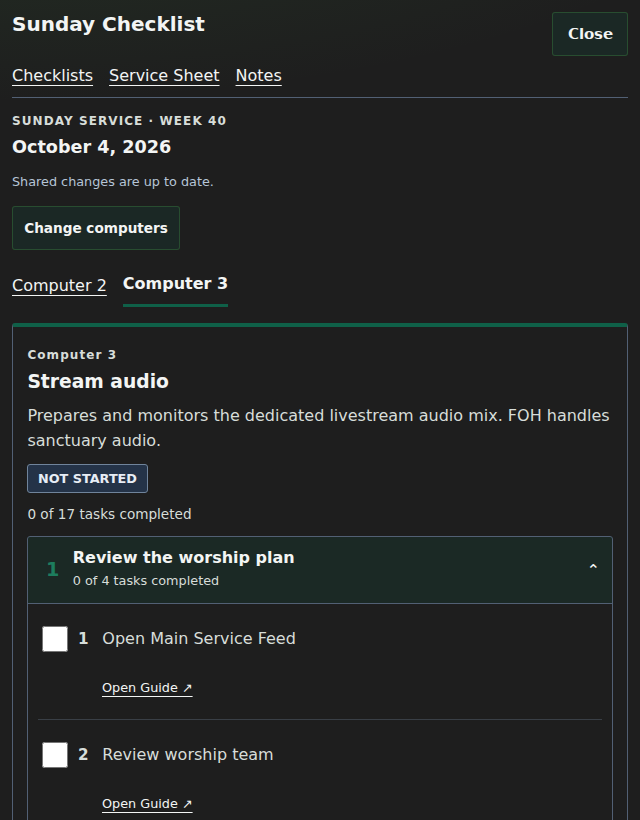
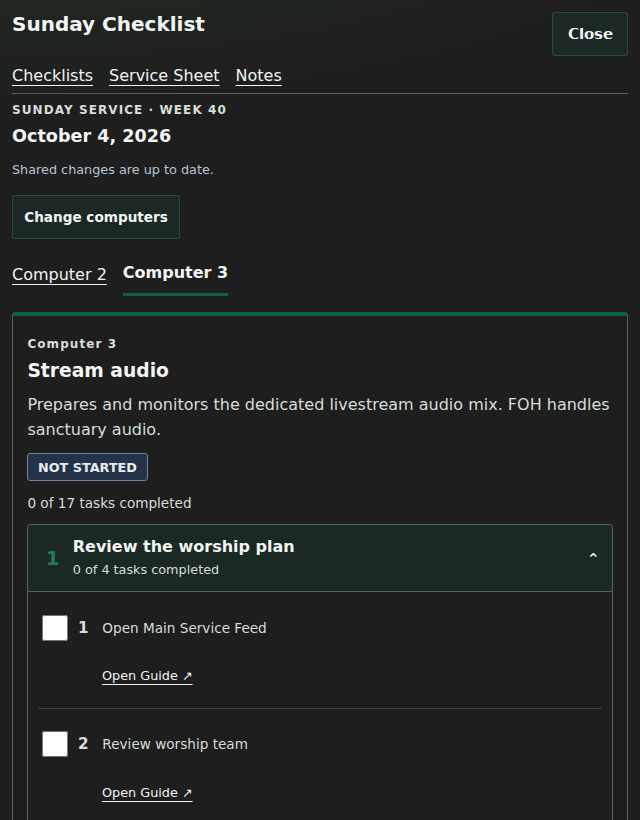
Make planner and media editors practical on phones
Start Pastor, Music Minister, and Media Team pages with clear position-specific instructions. Put compact song order/removal controls beneath each song using one shared template for saved and new songs. Group optional notes, prioritize editing before readiness, and clean up mobile announcement lists, galleries, input fields, and navigation.

Keep existing accounts, permissions, persistence, colors, and livestream handlers. Load mobile overrides after host CSS and refresh asset versions.

Validated role gates, saved/new song ordering/add/remove/save, footer geometry, shared state, archived views, all implemented MMS screens at 320/375/390/768px, and repeat cPanel deployment.

Changed region(s): [[0.0, 0.122, 1.0, 0.7927], [0.0625, 0.8841, 0.4375, 1.0], [0.1562, 0.8232, 0.3125, 0.8537]]

diff --git a/assets/admin-workspace.css b/assets/admin-workspace.css
@@ -178,3 +178,111 @@ body.admin-dark:has(.planner-page) .admin-content-head p {display:none}
 .checklist-window .planner-section-tabs{margin:.6rem 0 1rem}
 .checklist-window .planner-service-heading h3{font-size:1.1rem}
 .checklist-window .station-checklist{margin:1rem 0;padding:.9rem}
+
+/* Mobile editors: information first, actions immediately after that item. */
+.workspace .editor-heading{display:flex;flex-wrap:wrap;align-items:center;justify-content:space-between;gap:.6rem;margin-bottom:.5rem}
+.workspace .editor-heading h3{margin:0}
+.workspace .editor-sheet-link{display:inline-flex;align-items:center;min-height:44px;font-size:.9rem;margin-bottom:.4rem}
+.workspace .song{padding:1rem 0;border-top:1px solid var(--admin-border,#526074)}
+.workspace .song-head{display:block;margin-bottom:.6rem}
+.workspace .song-head h4{font-size:1rem;color:var(--admin-text,#e7edf5)}
+.workspace .song label{margin:.6rem 0 0;font-size:.85rem;font-weight:600;line-height:1.5}
+.workspace .song input,.workspace .song textarea{display:block;margin-top:.3rem;min-height:44px}
+.workspace .song-main-fields{display:grid;grid-template-columns:minmax(80px,1fr) minmax(0,2fr);gap:.75rem}
+.workspace .song-extra-fields{margin:.75rem 0 0;padding:0;border:0}
+.workspace .song-extra-fields>summary{cursor:pointer;display:flex;align-items:center;gap:.5rem;min-height:44px;font-size:.85rem;color:var(--admin-muted,#b6c5d7);list-style:none}
+.workspace .song-extra-fields>summary::before{content:'+';font-size:1.2rem;width:16px}
+.workspace .song-extra-fields[open]>summary::before{content:'−'}
+.workspace .song-extra-fields>summary::-webkit-details-marker{display:none}
+.workspace .song-extra-fields textarea{min-height:76px}
+.workspace .song-actions{display:grid;grid-template-columns:1fr 1fr 1fr;gap:.5rem;margin-top:.8rem;padding-top:.6rem;border-top:1px solid var(--admin-border,#526074)}
+.workspace .song-actions .btn{min-width:0;min-height:44px;margin:0;padding:.5rem .6rem;font:inherit;font-size:.85rem;border:1px solid var(--admin-border,#526074);background:var(--admin-surface-alt,#232526);color:var(--admin-text,#e7edf5);box-shadow:none}
+.workspace .song-actions .btn-danger{color:#ffb9b4;border-color:rgba(192,57,43,.45)}
+.workspace .song-actions .btn:disabled{opacity:.4;cursor:default}
+.workspace .song-actions .btn:focus-visible{outline:2px solid var(--admin-accent-strong,#59b48a);outline-offset:2px}
+.workspace .ready-control{display:flex;align-items:center;gap:.7rem;min-height:48px;margin:1rem 0;font-size:.9rem;font-weight:500;cursor:pointer}
+.workspace .ready-control input[type=checkbox]{margin:0;width:24px;height:24px;flex-shrink:0;accent-color:var(--admin-accent-strong,#59b48a)}
+.workspace .editor-detail{margin:.8rem 0;padding:.7rem;border:1px solid var(--admin-border,#526074);border-radius:3px}
+.workspace .editor-detail>summary{display:flex;align-items:center;min-height:44px;cursor:pointer;font-weight:600;font-size:.9rem;gap:.6rem;list-style:none}
+.workspace .editor-detail>summary::before{content:'+';font-size:1.2rem}
+.workspace .editor-detail[open]>summary::before{content:'−'}
+.workspace .editor-detail>summary::-webkit-details-marker{display:none}
+.workspace button:not(.btn){font:inherit;font-size:.9rem;border:1px solid var(--admin-border,#526074);background:var(--admin-surface-alt,#232526);color:var(--admin-text,#e7edf5);box-shadow:none}
+body.admin-dark .admin-shell .album-card{background:var(--admin-surface-alt);border:1px solid var(--admin-border);border-radius:3px;box-shadow:none}
+body.admin-dark .admin-shell .album-summary{color:var(--admin-muted)}
+body.admin-dark .admin-shell .album-cover-empty{background:var(--admin-accent-soft)}
+body.admin-dark .admin-shell .badge,body.admin-dark .admin-shell .announcement-status{border-radius:3px}
+body.admin-dark .admin-shell input[type=file]{box-sizing:border-box;max-width:100%;min-width:0;font-size:.85rem}
+@media(max-width:700px){
+ body.admin-dark .admin-shell .resource-nav-launcher:not(.open){display:none}
+ body.admin-dark .admin-shell .card,body.admin-dark .admin-shell .form-card{box-sizing:border-box;min-width:0;padding:1rem;border-radius:3px}
+ body.admin-dark .admin-shell .card-header{flex-direction:column;align-items:stretch;gap:.65rem;padding:0;margin-bottom:1rem}
+ body.admin-dark .admin-shell .card h2{font-size:1.2rem;line-height:1.4}
+ body.admin-dark .admin-shell .form-group{min-width:0}
+ body.admin-dark .admin-shell .form-group label{font-size:.85rem;line-height:1.5}
+ body.admin-dark .admin-shell .form-actions{display:flex;flex-wrap:wrap;gap:.5rem}
+ body.admin-dark .admin-shell .form-actions>.btn{min-height:44px;flex:1}
+ body.admin-dark .admin-shell .albums-grid,body.admin-dark .admin-shell .media-grid{grid-template-columns:minmax(0,1fr);gap:1rem}
+ body.admin-dark .admin-shell .album-actions{display:grid;grid-template-columns:1fr 1fr;gap:.5rem}
+ body.admin-dark .admin-shell .album-actions>a:first-child{grid-column:1/-1}
+ body.admin-dark .admin-shell .album-actions form{display:block!important}
+ body.admin-dark .admin-shell .album-actions .btn{width:100%;min-height:44px}
+ body.admin-dark .admin-shell .card img{max-width:100%;height:auto}
+ .workspace .editor-heading h3{font-size:1.15rem;line-height:1.3}
+ .workspace .editor-heading .status{font-size:.65rem;padding:.25rem .4rem}
+ .workspace label{font-size:.85rem;line-height:1.5;margin:.6rem 0 .3rem}
+ .workspace input:not([type=checkbox]),.workspace textarea,.workspace select{font-size:16px;padding:.6rem;min-height:44px}
+ .workspace textarea{min-height:80px}
+ .workspace .song{padding:.9rem 0}
+ .workspace .song-main-fields{gap:.6rem}
+ .workspace .ready-control{font-size:.9rem}
+ .workspace form .actions>.btn-primary,.workspace form .actions>#add-song{width:100%}
+ .workspace .tool-detail{padding:.6rem;margin:.6rem 0}
+ .workspace .tool-detail>summary{font-size:.95rem;line-height:1.5;min-height:44px}
+ .workspace .tool-detail .btn{display:flex;justify-content:center;margin:.5rem 0;width:100%}
+ .workspace .sheet-readiness-list dt small{font-size:.75rem}
+ body.admin-dark .admin-shell .announcement-table{display:block;width:100%;min-width:0}
+ body.admin-dark .admin-shell .announcement-table thead{position:absolute;width:1px;height:1px;overflow:hidden;clip:rect(0,0,0,0)}
+ body.admin-dark .admin-shell .announcement-table tbody{display:grid;gap:1rem}
+ body.admin-dark .admin-shell .announcement-table tr{display:grid;grid-template-columns:minmax(0,1fr) minmax(0,1fr);gap:.65rem;padding:.8rem 0;border-bottom:1px solid var(--admin-border)}
+ body.admin-dark .admin-shell .announcement-table td{display:block;padding:0;border:0;min-width:0;overflow-wrap:anywhere}
+ body.admin-dark .admin-shell .announcement-table td::before{content:attr(data-label);display:block;font-size:.7rem;font-weight:600;color:var(--admin-muted);margin-bottom:.35rem}
+ body.admin-dark .admin-shell .announcement-table .announcement-title-cell{grid-column:1/-1}
+ body.admin-dark .admin-shell .announcement-table .announcement-title-cell strong{font-size:1rem}
+ body.admin-dark .admin-shell .announcement-table td.actions{display:flex;grid-column:1/-1;gap:.5rem;padding-top:.65rem;border-top:1px solid var(--admin-border)}
+ body.admin-dark .admin-shell .announcement-table td.actions::before{display:none}
+ body.admin-dark .admin-shell .announcement-table td.actions>a,body.admin-dark .admin-shell .announcement-table td.actions>form{flex:1}
+ body.admin-dark .admin-shell .announcement-table td.actions .btn{width:100%;min-height:44px}
+ body.admin-dark .admin-shell .announcement-move-cell{gap:.35rem;justify-content:flex-start}
+ body.admin-dark .admin-shell .announcement-move-cell .move-btn{width:44px;min-height:44px;border-radius:3px}
+}
+/* The first screen explains whose workspace this is and what to do next. */
+body.admin-dark:has(.planner-work-header) .admin-content-head{display:none}
+.planner-page .planner-work-header{display:block;flex-direction:initial;padding:0 0 .8rem;margin:0 0 .4rem;border-bottom:1px solid var(--admin-border,#526074)}
+.planner-page .planner-work-header h2{font-size:1.45rem;line-height:1.35;margin:.25rem 0 .5rem;color:var(--admin-text,#e7edf5)}
+.planner-page .planner-work-header .planner-eyebrow{font-size:.8rem;color:var(--admin-accent-strong,#59b48a);margin:0;letter-spacing:.04em}
+.planner-page .planner-work-header .planner-first-step{font-size:.95rem;line-height:1.6;color:var(--admin-muted,#b6c5d7);margin:0;max-width:50rem}
+.planner-page:has(.planner-work-header) .checklist-controls>h3,
+.planner-page:has(.planner-work-header) .checklist-controls>.planner-eyebrow,
+.planner-page:has(.planner-work-header) .checklist-controls>p{display:none}
+.planner-page .readiness-summary{margin-top:1.2rem}
+@media(max-width:700px){.planner-page .planner-work-header h2{font-size:1.25rem}.planner-page .planner-work-header .planner-first-step{font-size:.9rem}}
+.planner-page .planner-work-header .planner-eyebrow{color:var(--admin-text,#e7edf5);letter-spacing:0;font-weight:600}
+.planner-page:has(.planner-work-header) .workspace-section>.planner-eyebrow,
+.planner-page:has(.planner-work-header) .editor-heading+p{display:none}
+.workspace .song input,.workspace .song textarea{font-weight:400}
+.workspace .actions .editor-sheet-link{margin:0;justify-content:center;font-size:.85rem;min-height:44px}
+@media(max-width:700px){.workspace .actions .editor-sheet-link{width:100%}}
+body.admin-dark .admin-shell .card input:not([type]),body.admin-dark .admin-shell .card input[type=url],body.admin-dark .admin-shell .card input[type=tel]{box-sizing:border-box;width:100%;min-width:0;max-width:100%;min-height:44px;padding:.65rem;border:1px solid var(--admin-border,#526074);border-radius:3px;background:var(--admin-surface-alt,#232526);color:var(--admin-text,#e7edf5);font:inherit;font-size:16px}
+body.admin-dark .admin-shell .card label:has(>input[type=checkbox]){display:flex;align-items:center;gap:.6rem;min-height:44px;cursor:pointer}
+body.admin-dark .admin-shell .card label>input[type=checkbox]{flex-shrink:0;margin:0;width:22px;height:22px;accent-color:var(--admin-accent,#0f6048)}
+body.admin-dark .admin-content:has(.workspace) .admin-content-head p{display:none}
+body.admin-dark .admin-content:has(.announcement-card-shell) .admin-content-head{display:none}
+body.admin-dark .admin-shell .announcement-move-cell .move-btn{display:inline-flex;align-items:center;justify-content:center;min-height:44px;border:1px solid var(--admin-border,#526074);background:var(--admin-surface-alt,#232526);color:var(--admin-text,#e7edf5);font:inherit;box-shadow:none;border-radius:3px}
+body.admin-dark .admin-shell .announcement-move-cell .move-btn:disabled{opacity:.4}
+@media(max-width:700px){
+ body.admin-dark .admin-shell .announcement-page-head h3{font-size:1.25rem;line-height:1.35;margin:0}
+ body.admin-dark .admin-shell .announcement-page-copy{font-size:.9rem;line-height:1.5;margin:.5rem 0}
+ body.admin-dark .admin-content:has(.albums-grid) .admin-content-head{display:none}
+ .workspace .planner-section-tabs{margin:.6rem 0 .6rem;padding-bottom:.5rem}
+}

diff --git a/assets/js/service-planner.js b/assets/js/service-planner.js
@@ -178,6 +178,9 @@
     if (!songs) return;
     [...songs.children].forEach((song, index) => {
       song.querySelector('.song-number').textContent = String(index + 1);
+      song.querySelector('.song-actions')?.setAttribute('aria-label', `Song ${index + 1} order controls`);
+      song.querySelector('[data-song-action="up"]')?.setAttribute('aria-label', `Move song ${index + 1} up`);
+      song.querySelector('[data-song-action="down"]')?.setAttribute('aria-label', `Move song ${index + 1} down`);
       song.querySelectorAll('[data-song-field]').forEach(input => { input.name = `songs[${index}][${input.dataset.songField}]`; });
       const up = song.querySelector('[data-song-action="up"]');
       const down = song.querySelector('[data-song-action="down"]');
@@ -188,15 +191,9 @@
   const add = document.getElementById('add-song');
   if (songs && add) {
     add.addEventListener('click', () => {
-      const song = document.createElement('div'); song.className = 'song';
-      const head = document.createElement('div'); head.className = 'song-head';
-      head.innerHTML = '<h4>Song <span class="song-number"></span></h4><div class="actions"><button type="button" data-song-action="up" aria-label="Move song up">↑ Up</button><button type="button" data-song-action="down" aria-label="Move song down">↓ Down</button><button type="button" data-song-action="remove">Remove</button></div>';
-      song.append(head);
-      Object.entries({title: 'Song title', key: 'Key', lead: 'Lead vocalist', additional: 'Additional vocalists', notes: 'Special notes / instruments'}).forEach(([key, text]) => {
-        const label = document.createElement('label'); label.textContent = text;
-        const input = document.createElement('input'); input.dataset.songField = key;
-        input.maxLength = 12000; input.required = key === 'title'; label.append(input); song.append(label);
-      });
+      const template = document.getElementById('song-template');
+      if (!template) return;
+      const song = template.content.firstElementChild.cloneNode(true);
       songs.append(song); renumber(); song.querySelector('input').focus();
     });
     songs.addEventListener('click', event => {

diff --git a/php/admin/service-planner/index.php b/php/admin/service-planner/index.php
@@ -31,11 +31,12 @@ try {
 }
 $popout=($_GET['popout']??'')==='1';
 if(!$popout)admin_page_start('Service Planner','service-planner');
-else { ?><!DOCTYPE html><html lang="en"><head><meta charset="utf-8"><meta name="viewport" content="width=device-width, initial-scale=1"><title>Sunday Checklist · Liberty Church</title><link rel="stylesheet" href="/assets/admin.css"><link rel="stylesheet" href="/assets/admin-workspace.css?v=2"></head><body class="admin-dark guide-body checklist-window"><main><?php }
+else { ?><!DOCTYPE html><html lang="en"><head><meta charset="utf-8"><meta name="viewport" content="width=device-width, initial-scale=1"><title>Sunday Checklist · Liberty Church</title><link rel="stylesheet" href="/assets/admin.css"><link rel="stylesheet" href="/assets/admin-workspace.css?v=3"></head><body class="admin-dark guide-body checklist-window"><main><?php }
 ?>
-<link rel="stylesheet" href="/assets/admin-workspace.css?v=2">
+<link rel="stylesheet" href="/assets/admin-workspace.css?v=3">
 <div class="workspace planner-page" id="service-planner" data-popout="<?=$popout?'1':'0'?>" data-section="<?=sp_e($section)?>" data-service-id="<?=$id?>" data-revision="<?=(int)($service['revision']??0)?>" data-archived="<?=!empty($service['is_archived'])?'1':'0'?>">
 <?php if($popout): ?><header class="guide-header"><h1>Sunday Checklist</h1><button class="btn btn-secondary" type="button" id="close-guide" hidden>Close</button></header><?php if($id): ?><nav class="planner-section-tabs"><a href="<?=sp_e(sp_page_url($id,'media',$computers))?>">Checklists</a><a href="<?=sp_e(sp_page_url($id,'sheet',$computers))?>">Service Sheet</a><a href="<?=sp_e(sp_page_url($id,'notes',$computers))?>">Notes</a></nav><?php endif; endif; ?>
+<?php if(!$popout)sp_work_intro($section,(bool)$service,(bool)$computers,(bool)($service['is_archived']??false)); ?>
 <?php if($error): ?><p class="flash flash-error" role="alert"><?=sp_e($error)?></p><?php endif; ?>
 <?php if(!$service): ?>
     <p class="planner-eyebrow">START HERE</p><h3>1. Choose the Sunday</h3>
@@ -68,35 +69,38 @@ else { ?><!DOCTYPE html><html lang="en"><head><meta charset="utf-8"><meta name="
     <?php elseif(in_array($section,['sheet','notes'],true)): ?>
         <?php require __DIR__.'/service-sheet.php'; ?>
     <?php elseif($section==='announcements'): ?>
-        <?php sp_media_readiness($statuses); ?>
         <section class="workspace-section"><p class="planner-eyebrow">PASTOR</p><h3>Church announcements</h3><nav class="planner-section-tabs"><a href="<?=sp_e(sp_page_url($id,'sermon'))?>">Sermon</a><a href="<?=sp_e(sp_page_url($id,'announcements'))?>" aria-current="page">Announcements</a></nav>
         <form method="post" data-planner-form><?php sp_hidden($service,'announcements'); ?><fieldset <?=$archived?'disabled':''?> style="border:0;padding:0"><label for="announcement-notes">Announcement notes for Media</label><p>List dates, reminders, and what Media needs to prepare for this Sunday.</p><textarea id="announcement-notes" name="announcement_notes" maxlength="12000"><?=sp_e($service['sermon']['announcement_notes']??'')?></textarea><?php if(!$archived): ?><div class="actions"><button class="btn btn-primary" type="submit">Save announcement notes</button></div><?php endif; ?></fieldset><p class="save-message" role="status"></p></form>
         </section><section class="workspace-section"><h3>Website announcements &amp; upcoming dates</h3><p>Use the existing announcement editor for wording and dates. The team sees current and upcoming announcements on the Service Sheet.</p><?php if(!$archived): ?><div class="actions"><a class="btn btn-primary" href="/php/admin/announcements/new.php">Add church announcement</a><a class="btn btn-secondary" href="/php/admin/announcements/index.php">Manage church announcements</a></div><?php endif; ?>
         <?php foreach(sp_service_announcements($pdo,$service) as $announcement): ?><article class="sheet-announcement"><h4><?=sp_e($announcement['title'])?></h4><p><?=sp_e(sp_announcement_dates($announcement))?></p><div class="reference"><?=sp_e($announcement['body'])?></div></article><?php endforeach; ?></section>
-    <?php elseif($section==='sermon'): ?>
         <?php sp_media_readiness($statuses); ?>
-        <section class="workspace-section"><p class="planner-eyebrow">PASTOR</p><h3>Sermon information</h3><p>Enter the information once. The team reads it on the Service Sheet.</p><a class="guide-link" href="<?=sp_e(sp_page_url($id,'sheet'))?>">View saved Service Sheet →</a><?php sp_badge('sermon',$statuses['sermon']); ?>
+    <?php elseif($section==='sermon'): ?>
+        <section class="workspace-section"><p class="planner-eyebrow">PASTOR</p><div class="editor-heading"><h3>Sermon information</h3><?php sp_badge('sermon',$statuses['sermon']); ?></div><p>Enter the sermon once for the whole team.</p>
         <nav class="planner-section-tabs"><a href="<?=sp_e(sp_page_url($id,'sermon'))?>" aria-current="page">Sermon</a><a href="<?=sp_e(sp_page_url($id,'announcements'))?>">Announcements</a></nav>
         <form method="post" data-planner-form><?php sp_hidden($service,'sermon'); ?><fieldset <?=$archived?'disabled':''?> style="border:0;padding:0;margin:0">
-        <?php foreach(['title'=>'Sermon title','primary_scripture'=>'Primary scripture','additional_scriptures'=>'Additional scriptures','media_notes'=>'Sermon notes needed by Media','special_media'=>'Special media requirements','videos'=>'Videos / existing media links','presentation_instructions'=>'Presentation instructions'] as $key=>$label): ?>
+        <?php foreach(['title'=>'Sermon title','primary_scripture'=>'Primary scripture','additional_scriptures'=>'Additional scriptures'] as $key=>$label): ?>
         <label for="sermon-<?=sp_e($key)?>"><?=sp_e($label)?></label><?php if(in_array($key,['title','primary_scripture'],true)): ?><input id="sermon-<?=sp_e($key)?>" name="<?=sp_e($key)?>" maxlength="1000" value="<?=sp_e($service['sermon'][$key]??'')?>"><?php else: ?><textarea id="sermon-<?=sp_e($key)?>" name="<?=sp_e($key)?>" maxlength="12000"><?=sp_e($service['sermon'][$key]??'')?></textarea><?php endif; ?>
-        <?php endforeach; ?><label><input type="checkbox" name="ready" value="1" <?=$service['sermon_ready']?'checked':''?>> Sermon information ready</label>
-        <?php if(!$archived): ?><div class="actions"><button class="btn" type="submit">Save sermon information</button></div><?php endif; ?></fieldset><p class="save-message" role="status"></p></form></section>
-    <?php elseif($section==='worship'): ?>
+        <?php endforeach; ?>
+        <details class="editor-detail"><summary>Media notes &amp; instructions</summary>
+        <?php foreach(['media_notes'=>'Sermon notes for Media','special_media'=>'Special media requirements','videos'=>'Videos / media links','presentation_instructions'=>'Presentation instructions'] as $key=>$label): ?><label for="sermon-<?=sp_e($key)?>"><?=sp_e($label)?></label><textarea id="sermon-<?=sp_e($key)?>" name="<?=sp_e($key)?>" maxlength="12000" rows="3"><?=sp_e($service['sermon'][$key]??'')?></textarea><?php endforeach; ?>
+        </details>
+        <label class="ready-control"><input type="checkbox" name="ready" value="1" <?=$service['sermon_ready']?'checked':''?>> Sermon information ready</label>
+        <?php if(!$archived): ?><div class="actions"><button class="btn btn-primary" type="submit">Save sermon information</button><a class="guide-link editor-sheet-link" href="<?=sp_e(sp_page_url($id,'sheet'))?>">View Service Sheet →</a></div><?php endif; ?></fieldset><p class="save-message" role="status"></p></form></section>
         <?php sp_media_readiness($statuses); ?>
-        <section class="workspace-section"><p class="planner-eyebrow">MUSIC MINISTER</p><h3>Worship plan</h3><p>Arrange songs in service order. The team reads the saved plan on the Service Sheet.</p><a class="guide-link" href="<?=sp_e(sp_page_url($id,'sheet'))?>">View saved Service Sheet →</a><?php sp_badge('worship',$statuses['worship']); ?>
+    <?php elseif($section==='worship'): ?>
+        <section class="workspace-section"><p class="planner-eyebrow">MUSIC MINISTER</p><div class="editor-heading"><h3>Worship plan</h3><?php sp_badge('worship',$statuses['worship']); ?></div><p>Enter the songs in service order.</p>
         <form method="post" data-planner-form id="worship-form"><?php sp_hidden($service,'worship'); ?><fieldset <?=$archived?'disabled':''?> style="border:0;padding:0;margin:0">
         <div id="songs">
-        <?php foreach($service['worship'] as $i=>$song): ?><div class="song"><div class="song-head"><h4>Song <span class="song-number"><?=$i+1?></span></h4><?php if(!$archived): ?><div class="actions"><button type="button" data-song-action="up" aria-label="Move song up">↑ Up</button><button type="button" data-song-action="down" aria-label="Move song down">↓ Down</button><button type="button" data-song-action="remove">Remove</button></div><?php endif; ?></div>
-        <?php foreach(['title'=>'Song title','key'=>'Key','lead'=>'Lead vocalist','additional'=>'Additional vocalists','notes'=>'Special notes / instruments'] as $key=>$label): ?><label><?=sp_e($label)?><input data-song-field="<?=sp_e($key)?>" name="songs[<?=$i?>][<?=sp_e($key)?>]" value="<?=sp_e($song[$key]??'')?>" maxlength="12000" <?=$key==='title'?'required':''?>></label><?php endforeach; ?></div><?php endforeach; ?>
+        <?php foreach($service['worship'] as $i=>$song)sp_song_editor($song,$i,$archived); ?>
         </div>
-        <?php if(!$archived): ?><div class="actions"><button type="button" id="add-song" class="btn btn-secondary">Add song</button></div><?php endif; ?>
-        <label><input type="checkbox" name="ready" value="1" <?=$service['worship_ready']?'checked':''?>> Worship plan ready</label>
-        <?php if(!$archived): ?><div class="actions"><button class="btn" type="submit">Save worship plan</button></div><?php endif; ?></fieldset><p class="save-message" role="status"></p></form></section>
+        <?php if(!$archived): ?><template id="song-template"><?php sp_song_editor([],0,false); ?></template><div class="actions"><button type="button" id="add-song" class="btn btn-secondary">Add song</button></div><?php endif; ?>
+        <label class="ready-control"><input type="checkbox" name="ready" value="1" <?=$service['worship_ready']?'checked':''?>> Worship plan ready</label>
+        <?php if(!$archived): ?><div class="actions"><button class="btn btn-primary" type="submit">Save worship plan</button><a class="guide-link editor-sheet-link" href="<?=sp_e(sp_page_url($id,'sheet'))?>">View Service Sheet →</a></div><?php endif; ?></fieldset><p class="save-message" role="status"></p></form></section>
+        <?php sp_media_readiness($statuses); ?>
     <?php elseif($section==='media'): ?>
         <?php require __DIR__.'/checklists.php'; ?>
     <?php endif; ?>
 <?php endif; ?>
 </div>
-<script src="/assets/js/service-planner.js?v=2" defer></script>
+<script src="/assets/js/service-planner.js?v=3" defer></script>
 <?php if(!$popout)admin_page_end();else { ?><script src="/assets/js/service-guide.js?v=1" defer></script></main></body></html><?php } ?>

diff --git a/php/admin/service-planner/presentation.php b/php/admin/service-planner/presentation.php
@@ -93,3 +93,39 @@ function sp_render_worship(array $songs): void { ?>
     <?php endforeach; ?></ol>
     <p data-empty-songs <?=!$songs?'':'hidden'?>>No songs entered yet.</p>
 <?php }
+
+function sp_song_editor(array $song, int $index, bool $archived): void { ?>
+    <div class="song">
+        <div class="song-head"><h4>Song <span class="song-number"><?=$index+1?></span></h4></div>
+        <label class="song-title-field">Song title<input data-song-field="title" name="songs[<?=$index?>][title]" value="<?=sp_e($song['title']??'')?>" maxlength="12000" required></label>
+        <div class="song-main-fields">
+            <label>Key<input data-song-field="key" name="songs[<?=$index?>][key]" value="<?=sp_e($song['key']??'')?>" maxlength="12000" placeholder="e.g. G"></label>
+            <label>Lead vocalist<input data-song-field="lead" name="songs[<?=$index?>][lead]" value="<?=sp_e($song['lead']??'')?>" maxlength="12000"></label>
+        </div>
+        <details class="song-extra-fields">
+            <summary>Additional vocals &amp; notes</summary>
+            <label>Additional vocalists<input data-song-field="additional" name="songs[<?=$index?>][additional]" value="<?=sp_e($song['additional']??'')?>" maxlength="12000"></label>
+            <label>Notes / instruments<textarea data-song-field="notes" name="songs[<?=$index?>][notes]" maxlength="12000" rows="3"><?=sp_e($song['notes']??'')?></textarea></label>
+        </details>
+        <?php if(!$archived): ?><div class="song-actions" role="group" aria-label="Song order controls">
+            <button class="btn btn-secondary" type="button" data-song-action="up" aria-label="Move song up">↑ Up</button>
+            <button class="btn btn-secondary" type="button" data-song-action="down" aria-label="Move song down">↓ Down</button>
+            <button class="btn btn-danger" type="button" data-song-action="remove">Remove</button>
+        </div><?php endif; ?>
+    </div>
+<?php }
+
+function sp_work_intro(string $section, bool $hasSunday, bool $hasStations, bool $archived): void
+{
+    $intro=match($section){
+        'sermon'=>['Pastor','Prepare Sunday’s sermon','Start with the title and scriptures. Add Media instructions if needed, then save.'],
+        'announcements'=>['Pastor','Prepare church announcements','Add the notes and dates Media needs for this Sunday, then save.'],
+        'worship'=>['Music Minister','Build Sunday’s worship plan','Add the songs in order. Set each key and lead vocalist, then save the plan.'],
+        'media'=>['Media Team',$hasStations?'Work through your station checklist':'Choose where you’re working',$hasStations?'Check each task when done. Open Guide whenever you need instructions.':'Select your stations below. You can work on more than one computer.'],
+        default=>null,
+    };
+    if(!$intro)return;
+    if(!$hasSunday)$intro[2]='First, open the Sunday service below. Then complete your section.';
+    if($archived){$intro[1]='Saved Sunday · '.$intro[0];$intro[2]='This Sunday is archived. You can read its saved information and completion state.';}
+    ?><header class="planner-work-header"><p class="planner-eyebrow"><?=sp_e($intro[0])?> workspace</p><h2><?=sp_e($intro[1])?></h2><p class="planner-first-step"><?=sp_e($intro[2])?></p></header><?php
+}

diff --git a/php/admin/announcements/index.php b/php/admin/announcements/index.php
@@ -32,8 +32,8 @@ admin_page_start($categoryFilter?'Youth Announcements':'Announcements', 'announc
 <section class="card announcement-card-shell">
     <div class="card-header announcement-list-header">
         <div class="announcement-page-head">
-            <h3><?=$categoryFilter?'Youth Announcements':'Manage Announcements'?></h3>
-            <p class="announcement-page-copy"><?=$categoryFilter?'Youth-page announcements. Open all announcements to change the website display order.':'Use the arrows to move announcements up or down. New announcements publish straight to the site, and edits save without any sort-order box.'?></p><?php if($categoryFilter): ?><a class="btn btn-secondary" href="index.php">View all announcements</a><?php endif; ?>
+            <h3><?=$categoryFilter?'Youth Announcements':'Church announcements'?></h3>
+            <p class="announcement-page-copy"><?=$categoryFilter?'Youth-page announcements. Open all announcements to change the website display order.':'Add announcements and dates. Use the arrows to change their order.'?></p><?php if($categoryFilter): ?><a class="btn btn-secondary" href="index.php">View all announcements</a><?php endif; ?>
         </div>
         <a href="new.php<?=$categoryFilter?'?category=youth':''?>" class="btn btn-primary">+ New Announcement</a>
     </div>
@@ -77,10 +77,10 @@ admin_page_start($categoryFilter?'Youth Announcements':'Announcements', 'announc
                                 <strong><?= htmlspecialchars($ann['title']) ?></strong>
                                 <small class="muted announcement-preview"><?= htmlspecialchars($previewText) ?><?= $hasMore ? '…' : '' ?></small>
                             </td>
-                            <td>
+                            <td data-label="Placement">
                                 <span class="announcement-meta-label"><?= htmlspecialchars(ucfirst($ann['category'])) ?></span>
                             </td>
-                            <td>
+                            <td data-label="Schedule">
                                 <small class="announcement-meta-block">
                                     <?php if ($ann['start_date']): ?>
                                         <span>Starts <?= htmlspecialchars((string) $ann['start_date']) ?></span>
@@ -93,12 +93,12 @@ admin_page_start($categoryFilter?'Youth Announcements':'Announcements', 'announc
                                     <?php endif; ?>
                                 </small>
                             </td>
-                            <td>
+                            <td data-label="Status">
                                 <span class="announcement-status <?= $ann['is_published'] ? 'is-live' : 'is-muted' ?>">
                                     <?= $ann['is_published'] ? 'Published' : 'Draft' ?>
                                 </span>
                             </td>
-                            <td>
+                            <td data-label="Move">
                                 <div class="announcement-move-cell">
                                     <form method="POST" action="reorder.php" class="move-form">
                                         <input type="hidden" name="csrf_token" value="<?= csrf_token() ?>">

diff --git a/deploy/feature.php b/deploy/feature.php
@@ -57,7 +57,7 @@ if (!str_contains($layout, 'admin_workspace_groups($resourceGroups)')) {
  if ($count !== 1) throw new RuntimeException('Could not integrate admin navigation. No live files changed.');
 }
 if (!str_contains($layout, '/assets/admin-workspace.css')) {
- $layout = str_replace('</head>', '<link rel="stylesheet" href="/assets/admin-workspace.css?v=2">'."\n</head>", $layout);
+ $layout = str_replace('</head>', '<link rel="stylesheet" href="/assets/admin-workspace.css?v=3">'."\n</head>", $layout);
 }
 if (!str_contains($layout, 'admin_workspace_navigation($active)')) {
  $menuLoop = '<?php foreach ($resourceGroups as $group): ?>';
@@ -65,7 +65,9 @@ if (!str_contains($layout, 'admin_workspace_navigation($active)')) {
  $layout = str_replace($menuLoop, '<?php admin_workspace_navigation($active); ?>'."\n".$menuLoop, $layout);
 }
 $layout = str_replace('<a class="resource-link" href="/php/admin/features/index.php">Feature</a>', '', $layout);
-$layout=str_replace('/assets/admin-workspace.css?v=1','/assets/admin-workspace.css?v=2',$layout);
+// Keep overrides after the host stylesheet, and expire cached planner assets.
+$layout=preg_replace('~<link\b[^>]*href="/assets/admin-workspace\.css[^"\s]*"[^>]*>~','',$layout);
+$layout=str_replace('</head>','<link rel="stylesheet" href="/assets/admin-workspace.css?v=3">'."\n</head>",$layout);
 add_write('php/admin/layout.php',$layout);
 $ht=is_file($root.'/.htaccess')?file_get_contents($root.'/.htaccess'):'';
 if (!str_contains($ht,'RewriteRule ^operation-christmas-child')) $ht="<IfModule mod_rewrite.c>\nRewriteEngine On\nRewriteRule ^operation-christmas-child/?$ operation-christmas-child.php [L]\n</IfModule>\n".$ht;

diff --git a/php/admin/service-planner/guide.php b/php/admin/service-planner/guide.php
@@ -41,7 +41,7 @@ try {
 }catch(Throwable $e){if($uploadedPath && is_file($uploadedPath))unlink($uploadedPath);$error=$e instanceof InvalidArgumentException || $e->getCode()===409?$e->getMessage():'The guide could not load or save. Try again.';if(!($e instanceof InvalidArgumentException) && $e->getCode()!==409)error_log($e->getMessage());}
 $resources=$task?sp_decode($task['resources_json']??'[]'):[];
 ?>
-<!DOCTYPE html><html lang="en"><head><meta charset="utf-8"><meta name="viewport" content="width=device-width, initial-scale=1"><title><?=sp_e($task?$task['title']:'Station Manual')?> · Liberty Church</title><link rel="stylesheet" href="/assets/admin.css"><link rel="stylesheet" href="/assets/admin-workspace.css?v=2"></head>
+<!DOCTYPE html><html lang="en"><head><meta charset="utf-8"><meta name="viewport" content="width=device-width, initial-scale=1"><title><?=sp_e($task?$task['title']:'Station Manual')?> · Liberty Church</title><link rel="stylesheet" href="/assets/admin.css"><link rel="stylesheet" href="/assets/admin-workspace.css?v=3"></head>
 <body class="admin-dark guide-body"><main class="workspace guide-workspace">
     <header class="guide-header"><div><p class="planner-eyebrow">LIBERTY CHURCH</p><h1>Station Manual</h1></div><button type="button" class="btn btn-secondary" id="close-guide" hidden>Close guide</button></header>
     <nav class="planner-breadcrumb"><a href="<?=sp_e(sp_guide_url($id))?>">All stations</a><?php if($station): ?><span aria-hidden="true">/</span><a href="<?=sp_e(sp_guide_url($id,$station))?>"><?=sp_e(sp_stations()[$station][0])?></a><?php endif; ?></nav>

diff --git a/tests/service_planner_deploy_test.py b/tests/service_planner_deploy_test.py
@@ -9,7 +9,7 @@ php=[os.environ.get('PLANNER_TEST_PHP','php')]+json.loads(os.environ.get('PLANNE
 for i in range(2):
  result=subprocess.run(php+[str(r/'deploy/feature.php'),str(target)],capture_output=True,text=True);assert result.returncode==0,result.stderr
  assert marker in (target/'index.html').read_text();assert config==(target/'php/config.php').read_bytes();assert auth==(target/'php/admin/bootstrap.php').read_bytes()
- layout=(target/'php/admin/layout.php').read_text();assert layout.count('admin_workspace_navigation($active)')==1;assert 'admin-workspace.css?v=2' in layout
+ layout=(target/'php/admin/layout.php').read_text();assert layout.count('admin_workspace_navigation($active)')==1;assert 'admin-workspace.css?v=3' in layout
  for file in ['access.php','guide.php','checklists.php','foh.php','presentation.php','service-sheet.php']:assert (target/'php/admin/service-planner'/file).exists()
  assert subprocess.run(php+['-l',str(target/'php/admin/layout.php')],capture_output=True).returncode==0
 before=(target/'index.html').read_bytes();p=target/'php/admin/layout.php';p.write_text('<?php function admin_page_start() {} ?>');bad=subprocess.run(php+[str(r/'deploy/feature.php'),str(target)],capture_output=True,text=True);assert bad.returncode!=0;assert before==(target/'index.html').read_bytes()

diff --git a/tests/service_planner_fixture.php b/tests/service_planner_fixture.php
@@ -12,4 +12,6 @@ sp_mutate($pdo,['action'=>'worship','service_id'=>$id,'revision'=>1,'songs'=>[['
 $pdo->exec("DELETE FROM announcements WHERE title LIKE 'QA %'");
 $s=$pdo->prepare('INSERT INTO announcements(category,title,body,start_date,end_date,is_published,sort_order) VALUES(?,?,?,?,?,1,0)');
 $s->execute(['main','QA Upcoming outreach','Prepare the announcement graphic.','2026-10-18','2026-10-18']);$s->execute(['main','QA Expired event','Should not appear.','2026-09-01','2026-09-02']);$s->execute(['youth','QA Youth night','Youth announcement.','2026-10-10','2026-10-10']);
+$album=$pdo->prepare('INSERT INTO youth_albums(title,summary,event_date,is_active) SELECT ?,?,?,1 WHERE NOT EXISTS(SELECT 1 FROM youth_albums WHERE title=?)');
+$album->execute(['QA Youth gallery','Photos from our youth gatherings.','2026-10-04','QA Youth gallery']);
 echo "Fixture Sunday ID: $id\n";

diff --git a/php/admin/layout.php b/php/admin/layout.php
@@ -122,8 +122,8 @@ function admin_page_start(string $title, string $active = ''): void
         <link rel="preconnect" href="https://fonts.googleapis.com">
         <link rel="preconnect" href="https://fonts.gstatic.com" crossorigin>
         <link href="https://fonts.googleapis.com/css2?family=Inter:wght@400;500;600;700&display=swap" rel="stylesheet">
-        <link rel="stylesheet" href="/assets/admin-workspace.css?v=1">
         <link rel="stylesheet" href="/assets/admin.css?v=<?= rawurlencode($cssVersion) ?>">
+        <link rel="stylesheet" href="/assets/admin-workspace.css?v=3">
     </head>
     <body class="admin-dark">
     <div class="admin-shell">

diff --git a/php/admin/media/index.php b/php/admin/media/index.php
@@ -4,7 +4,7 @@ require_once __DIR__ . '/../layout.php';
 admin_require_login();
 admin_page_start('Media Management', 'media-management');
 ?>
-<link rel="stylesheet" href="/assets/admin-workspace.css?v=2">
+<link rel="stylesheet" href="/assets/admin-workspace.css?v=3">
 <div class="workspace">
     <p>Publish and manage website content using the existing tools.</p>
     <section class="workspace-section">

diff --git a/docs/media-service-planner.md b/docs/media-service-planner.md
@@ -63,3 +63,9 @@ Do not point test fixtures at production. `tests/service_planner_fixture.php` re
 `tests/service_planner_browser.cjs` uses Playwright and `PLANNER_TEST_BASE` (defaults to `http://127.0.0.1:8090`; only localhost/127.0.0.1 allowed), with optional `PLANNER_CHROME_EXECUTABLE`. It tests existing login roles, hidden/blocked editors, CSRF rejection, shared checkbox saves, process accordions, editable screenshot guides, closeable popup windows, two-station switching, preserved popup page navigation, announcement notes, live FOH readiness, youth filtering, and no horizontal overflow at 375/390/768/1366px. Preview PNGs in `docs/previews` contain isolated QA content.
 
 `tests/service_planner_deploy_test.py` requires the same isolated `DB_NAME=church_test` environment and a PHP CLI with PDO MySQL. Optional `PLANNER_TEST_PHP` selects the executable; `PLANNER_TEST_PHP_ARGUMENTS` is a JSON argument array. It deploys twice into a temporary host copy and verifies unchanged config/auth, preserved custom HTML, installed dependencies, shell syntax, backups, and refusal of an incompatible shell. It never targets the real document root.
+
+## Mobile editor refinement
+
+Each Pastor, Music Minister, and Media Team screen now starts with its position and a concrete first step. Editors show the work before cross-team readiness. Pastor's additional Media instructions are grouped separately. Song title comes first, key and lead share a compact row, and optional vocals/notes are collapsed. Every song's Up, Down, and Remove controls sit together underneath its fields; saved and newly added songs use the same server-rendered template. Ordering, removal, and saving retain the existing persistence behavior.
+
+Phone announcement lists replace the wide table presentation with readable entries and controls beneath the information. Gallery controls, file fields, checkboxes, and bare text/URL inputs use consistent compact styling. Existing livestream handlers and equipment workflows remain unchanged. The deployment moves the workspace stylesheet after the host CSS and updates cache versions so existing phones load the new controls. Browser coverage includes all implemented MMS pages and both role editors at 320, 375, 390, and 768px, plus saved/new-song footer positioning and order/save behavior.
